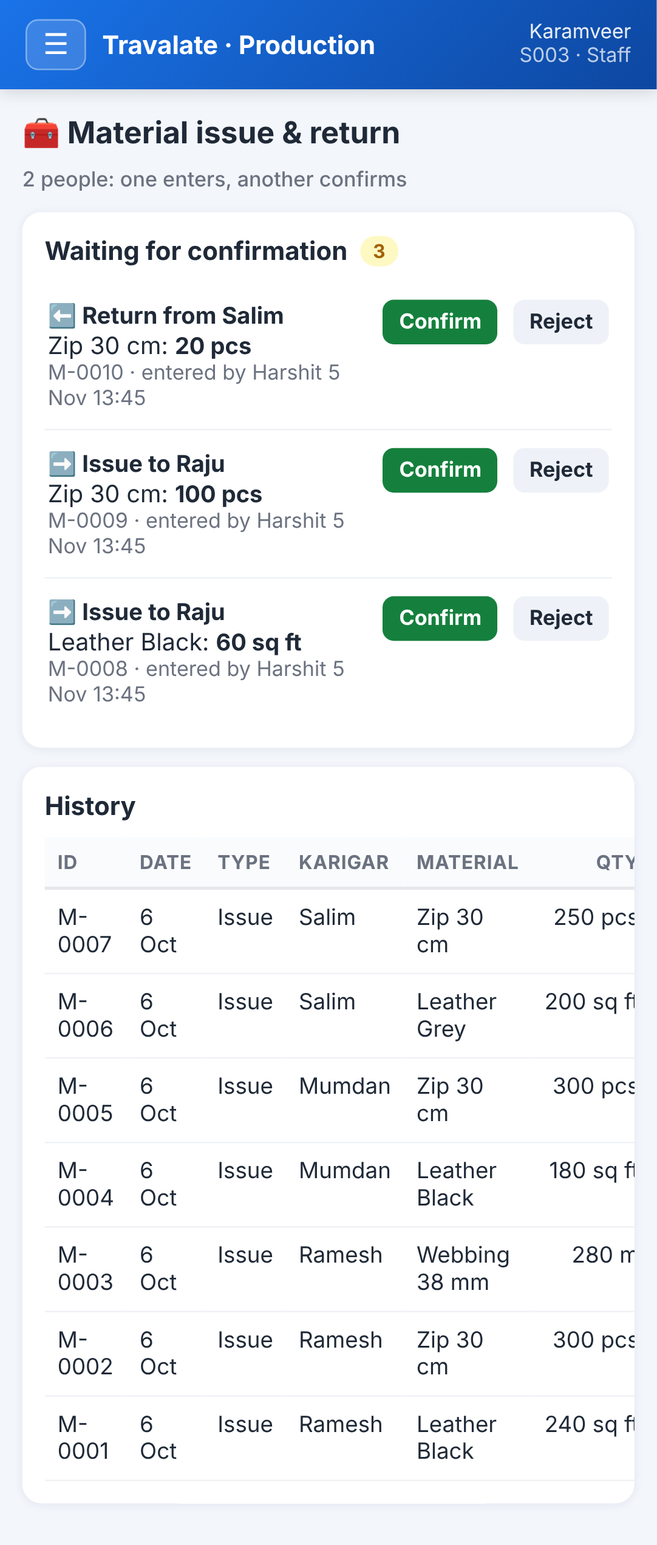
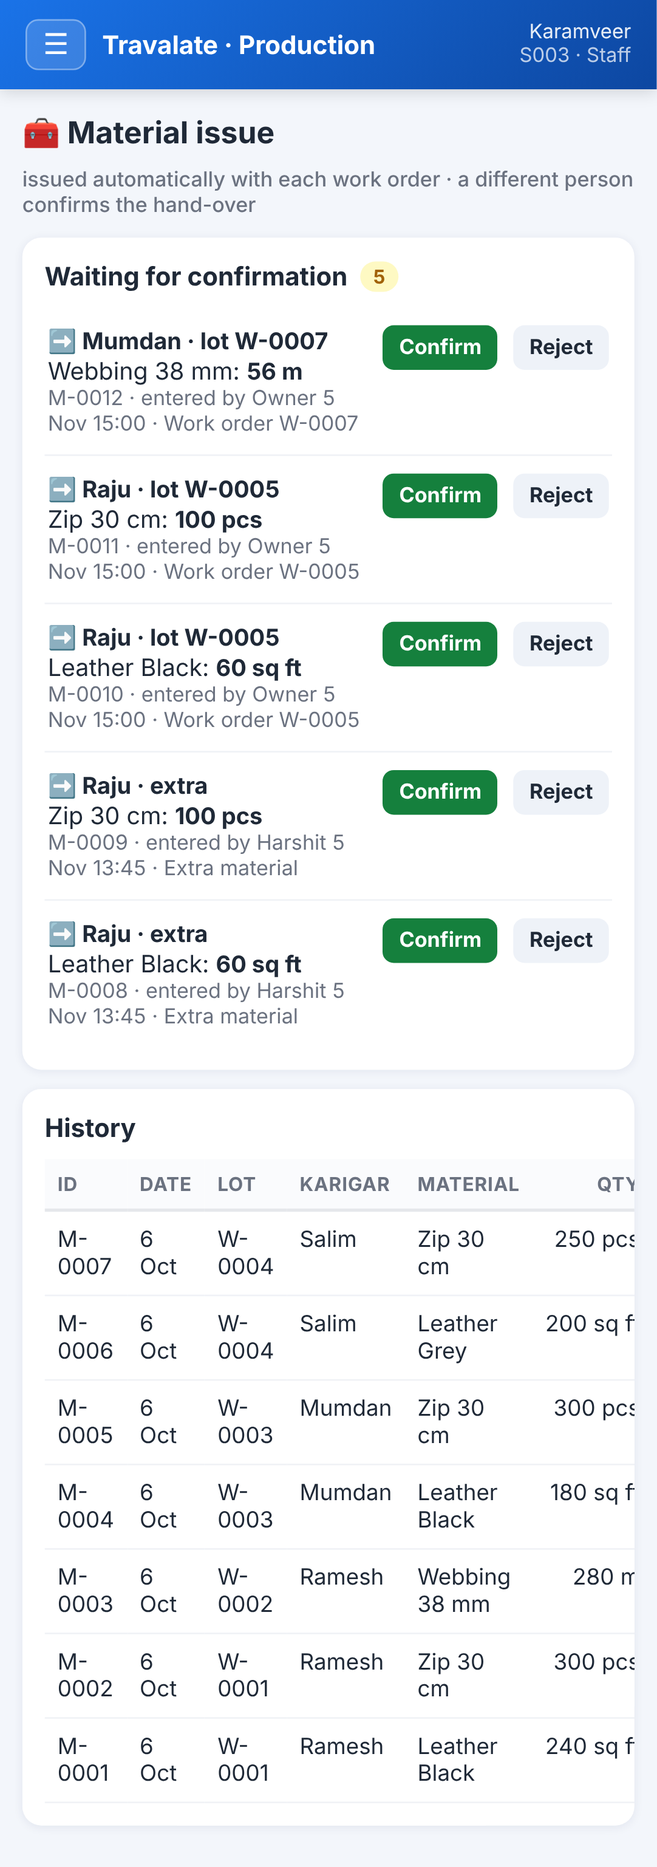
Production app: material is issued automatically with each work order; no returns
- Creating a lot issues quantity × material per piece (BOM) to the karigar; a different person confirms the
  hand-over (Confirm whole lot). Extra material outside a lot can still be issued.
- Material returns removed; balance = given − used.

Claude-Session: https://claude.ai/code/session_01Kh5UPgEYYGq7tCgf8f7WJ8

diff --git a/production-app/Index.html b/production-app/Index.html
@@ -501,7 +501,7 @@ VIEWS.orders = function (all) {
         '<select id="woI" onchange="woHint()">' + itemOpts(r.items) + '</select></div><div class="row" style="margin-top:8px"><input id="woQ" type="number" inputmode="numeric" placeholder="Quantity"><input id="woN" placeholder="Note (optional)"></div>' +
         (r.canRate ? '<div class="row" style="margin-top:8px"><input id="woR" type="number" step="any" inputmode="decimal" placeholder="Special rate for this lot (blank = normal rate)" oninput="woHint()"></div>' +
           '<div class="chk" id="woFutureRow" style="display:none"><input type="checkbox" id="woF"> Also use this rate for this karigar\'s future lots of this item</div>' : '') +
-        '<div class="muted" id="woHint" style="margin-top:6px"></div><button class="btn block" onclick="saveWo(this)">Add work order</button></div>' : '') +
+        '<div class="muted" id="woHint" style="margin-top:6px"></div><div class="muted">The lot\'s material (quantity × material per piece) is issued to the karigar automatically. A different person confirms the hand-over in Material issue.</div><button class="btn block" onclick="saveWo(this)">Add work order</button></div>' : '') +
       '<div class="card scroll"><table class="tbl"><tr><th>Lot</th><th>Karigar</th><th>Item</th><th class="r">Rate</th><th class="r">Ordered</th><th class="r">Received</th><th class="r">To make</th><th>Material for the lot</th><th></th></tr>' +
       (r.list.map(function (o) {
         var rate = o.rate !== null ? money(o.rate) + '<div>' + srcPill(o.rateSource) + '</div>' : (o.rateNow !== null ? money(o.rateNow) : '<span class="pill warn">No rate</span>');
@@ -520,7 +520,11 @@ function woHint() {
 function saveWo(btn) {
   busy(btn, true);
   api('saveOrder', S.token, { karigarId: val('woK'), item: val('woI'), qty: val('woQ'), note: val('woN'), lotRate: $('woR') ? val('woR') : '', futureToo: $('woF') ? $('woF').checked : false })
-    .then(function () { toast('Work order added'); go('orders'); }).catch(function (e) { fail(e, btn); });
+    .then(function (r) {
+      var a = r.added;
+      toast(a.id + ' added. ' + (a.issued.length ? 'Material issued: ' + a.issued.map(function (x) { return x.material + ' ' + num(x.qty) + ' ' + x.unit; }).join(', ') + ' (to be confirmed).' : 'This item has no BOM, so no material was issued.'));
+      go('orders');
+    }).catch(function (e) { fail(e, btn); });
 }
 function lotRate(id) {
   var o = S.data.ol.list.filter(function (x) { return x.id === id; })[0];
@@ -538,20 +542,32 @@ VIEWS.material = function () {
   api('moveList', S.token).then(function (r) {
     S.data.ml = r;
     var pending = r.list.filter(function (m) { return m.status === 'PENDING'; });
-    render('<h1 class="page">🧰 Material issue & return <small>2 people: one enters, another confirms</small></h1>' +
-      (r.canIssue ? '<div class="card"><h2>Give or take back material</h2><div class="row"><select id="mvT"><option value="ISSUE">Issue to karigar</option><option value="RETURN">Return from karigar</option></select>' +
+    render('<h1 class="page">🧰 Material issue <small>issued automatically with each work order · a different person confirms the hand-over</small></h1>' +
+      '<div class="card"><h2>Waiting for confirmation <span class="pill warn">' + pending.length + '</span></h2>' + (pending.length ? pendingByLot(pending) : '<div class="muted">Nothing waiting.</div>') + '</div>' +
+      (r.canIssue ? '<div class="card"><h2>Extra material (not part of a work order)</h2><div class="row">' +
         '<select id="mvK"><option value="">Karigar…</option>' + opts(r.karigars, '', function (k) { return k.name + ' (' + k.id + ')'; }) + '</select></div>' +
         '<div class="lines" style="margin-top:8px" id="mvLines"></div><button class="btn sec sm" onclick="addMvLine()">+ Add material</button><label class="f">Note</label><input id="mvN"><button class="btn block" onclick="saveMv(this)">Save (to be confirmed)</button></div>' : '') +
-      '<div class="card"><h2>Waiting for confirmation <span class="pill warn">' + pending.length + '</span></h2>' + (pending.length ? '<div class="list">' + pending.map(moveRow).join('') + '</div>' : '<div class="muted">Nothing waiting.</div>') + '</div>' +
-      '<div class="card scroll"><h2>History</h2><table class="tbl"><tr><th>ID</th><th>Date</th><th>Type</th><th>Karigar</th><th>Material</th><th class="r">Qty</th><th>Entered</th><th>Confirmed</th><th>Status</th></tr>' +
+      '<div class="card scroll"><h2>History</h2><table class="tbl"><tr><th>ID</th><th>Date</th><th>Lot</th><th>Karigar</th><th>Material</th><th class="r">Qty</th><th>Entered</th><th>Confirmed</th><th>Status</th></tr>' +
       r.list.filter(function (m) { return m.status !== 'PENDING'; }).map(function (m) {
-        return '<tr><td>' + m.id + '</td><td>' + d(m.date) + '</td><td>' + (m.type === 'ISSUE' ? 'Issue' : 'Return') + '</td><td>' + esc(m.karigar) + '</td><td>' + esc(m.material) + '</td><td class="r">' + num(m.qty) + ' ' + esc(m.unit) + '</td><td>' + esc(m.enteredByName) + '</td><td>' + esc(m.confirmedByName) + '</td><td><span class="pill ' + (m.status === 'CONFIRMED' ? 'ok' : 'err') + '">' + m.status.toLowerCase() + '</span></td></tr>';
+        return '<tr><td>' + m.id + '</td><td>' + d(m.date) + '</td><td>' + (m.workOrder || (m.type === 'RETURN' ? 'Return' : 'Extra')) + '</td><td>' + esc(m.karigar) + '</td><td>' + esc(m.material) + '</td><td class="r">' + num(m.qty) + ' ' + esc(m.unit) + '</td><td>' + esc(m.enteredByName) + '</td><td>' + esc(m.confirmedByName) + '</td><td><span class="pill ' + (m.status === 'CONFIRMED' ? 'ok' : 'err') + '">' + m.status.toLowerCase() + '</span></td></tr>';
       }).join('') + '</table></div>');
     if (r.canIssue) addMvLine();
   }).catch(function (e) { render('<div class="msg err">' + esc(e.message) + '</div>'); });
 };
+function pendingByLot(pending) {
+  var lots = {}, order = [];
+  pending.forEach(function (m) { var k = m.workOrder || ('extra-' + m.id); if (!lots[k]) { lots[k] = []; order.push(k); } lots[k].push(m); });
+  return order.map(function (k) {
+    var list = lots[k], m0 = list[0];
+    if (!m0.workOrder) return '<div class="list">' + list.map(moveRow).join('') + '</div>';
+    return '<div style="border:1px solid var(--line);border-radius:10px;padding:8px 12px;margin-bottom:10px"><div class="row" style="align-items:center"><div><b>Lot ' + m0.workOrder + ' · ' + esc(m0.karigar) + '</b><div class="muted">entered by ' + esc(m0.enteredByName) + ' ' + d(m0.enteredAt) + '</div></div>' +
+      (m0.canDecide ? '<button class="btn ok fix" onclick="confirmLot(\'' + m0.workOrder + '\',this)">Confirm whole lot</button>' : '<span class="muted fix">' + (m0.enteredBy === S.profile.id ? 'Another person must confirm' : '') + '</span>') + '</div>' +
+      '<div class="list">' + list.map(moveRow).join('') + '</div></div>';
+  }).join('');
+}
+function confirmLot(lot, btn) { busy(btn, true); api('confirmLot', S.token, lot).then(function () { toast('Material of ' + lot + ' confirmed'); go('material'); }).catch(function (e) { fail(e, btn); }); }
 function moveRow(m) {
-  return '<div class="it"><div class="grow"><b>' + (m.type === 'ISSUE' ? '➡ Issue to ' : '⬅ Return from ') + esc(m.karigar) + '</b><div>' + esc(m.material) + ': <b>' + num(m.qty) + ' ' + esc(m.unit) + '</b></div><div class="muted">' + m.id + ' · entered by ' + esc(m.enteredByName) + ' ' + d(m.enteredAt) + (m.note ? ' · ' + esc(m.note) : '') + '</div></div>' +
+  return '<div class="it"><div class="grow"><b>➡ ' + esc(m.karigar) + (m.workOrder ? ' · lot ' + m.workOrder : ' · extra') + '</b><div>' + esc(m.material) + ': <b>' + num(m.qty) + ' ' + esc(m.unit) + '</b></div><div class="muted">' + m.id + ' · entered by ' + esc(m.enteredByName) + ' ' + d(m.enteredAt) + (m.note ? ' · ' + esc(m.note) : '') + '</div></div>' +
     (m.canDecide ? '<button class="btn ok sm" onclick="decide(\'' + m.id + '\',true,this)">Confirm</button> <button class="btn sec sm" onclick="decide(\'' + m.id + '\',false,this)">Reject</button>' : '<span class="muted">' + (m.enteredBy === S.profile.id ? 'Another person must confirm' : '') + '</span>') + '</div>';
 }
 function addMvLine() {
@@ -561,7 +577,7 @@ function addMvLine() {
 }
 function saveMv(btn) {
   var lines = Array.prototype.map.call(document.querySelectorAll('#mvLines .ln'), function (ln) { return { material: ln.children[0].value, qty: Number(ln.children[1].value) }; }).filter(function (l) { return l.material && l.qty > 0; });
-  busy(btn, true); api('saveMove', S.token, { type: val('mvT'), karigarId: val('mvK'), lines: lines, note: val('mvN') }).then(function () { toast('Saved. Another person must confirm it.'); go('material'); }).catch(function (e) { fail(e, btn); });
+  busy(btn, true); api('saveMove', S.token, { karigarId: val('mvK'), lines: lines, note: val('mvN') }).then(function () { toast('Saved. Another person must confirm it.'); go('material'); }).catch(function (e) { fail(e, btn); });
 }
 function decide(id, ok, btn) { busy(btn, true); api('decideMove', S.token, id, ok).then(function () { toast(ok ? 'Confirmed' : 'Rejected'); go('material'); }).catch(function (e) { fail(e, btn); }); }
 
@@ -569,11 +585,11 @@ VIEWS.balance = function () {
   api('materialBalance', S.token).then(function (r) {
     var by = {};
     r.list.forEach(function (b) { (by[b.karigar] = by[b.karigar] || []).push(b); });
-    render('<h1 class="page">⚖ Material balance <small>given − returned − used (good + rejected × BOM). No wastage allowed.</small></h1>' +
+    render('<h1 class="page">⚖ Material balance <small>given − used (good + rejected pieces × material per piece). No wastage allowed.</small></h1>' +
       Object.keys(by).map(function (k) {
-        return '<div class="card scroll"><h2>👷 ' + esc(k) + '</h2><table class="tbl"><tr><th>Material</th><th class="r">Given</th><th class="r">Returned</th><th class="r">Used</th><th class="r">With karigar</th><th class="r">Unconfirmed</th><th class="r">Still to give</th><th></th></tr>' +
+        return '<div class="card scroll"><h2>👷 ' + esc(k) + '</h2><table class="tbl"><tr><th>Material</th><th class="r">Given</th><th class="r">Used</th><th class="r">With karigar</th><th class="r">Not confirmed yet</th><th></th></tr>' +
           by[k].map(function (b) {
-            return '<tr><td>' + esc(b.materialName) + '</td><td class="r">' + num(b.issued) + '</td><td class="r">' + num(b.returned) + '</td><td class="r">' + num(b.used) + '</td><td class="r ' + (b.balance < 0 ? 'neg' : '') + '"><b>' + num(b.balance) + '</b> ' + esc(b.unit) + '</td><td class="r">' + (b.pending ? num(b.pending) : '') + '</td><td class="r">' + (b.toIssue ? num(b.toIssue) : '') + '</td><td>' + (b.flag ? '<span class="pill ' + (b.balance < 0 ? 'err' : 'warn') + '">' + esc(b.flag) + '</span>' : '') + '</td></tr>';
+            return '<tr><td>' + esc(b.materialName) + '</td><td class="r">' + num(b.issued - b.returned) + '</td><td class="r">' + num(b.used) + '</td><td class="r ' + (b.balance < 0 ? 'neg' : '') + '"><b>' + num(b.balance) + '</b> ' + esc(b.unit) + '</td><td class="r">' + (b.pending ? num(b.pending) : '') + '</td><td>' + (b.flag ? '<span class="pill ' + (b.balance < 0 ? 'err' : 'warn') + '">' + esc(b.flag) + '</span>' : '') + '</td></tr>';
           }).join('') + '</table></div>';
       }).join('') || '<div class="card muted">No material given yet.</div>');
   }).catch(function (e) { render('<div class="msg err">' + esc(e.message) + '</div>'); });

diff --git a/production/index.html b/production/index.html
@@ -501,7 +501,7 @@ VIEWS.orders = function (all) {
         '<select id="woI" onchange="woHint()">' + itemOpts(r.items) + '</select></div><div class="row" style="margin-top:8px"><input id="woQ" type="number" inputmode="numeric" placeholder="Quantity"><input id="woN" placeholder="Note (optional)"></div>' +
         (r.canRate ? '<div class="row" style="margin-top:8px"><input id="woR" type="number" step="any" inputmode="decimal" placeholder="Special rate for this lot (blank = normal rate)" oninput="woHint()"></div>' +
           '<div class="chk" id="woFutureRow" style="display:none"><input type="checkbox" id="woF"> Also use this rate for this karigar\'s future lots of this item</div>' : '') +
-        '<div class="muted" id="woHint" style="margin-top:6px"></div><button class="btn block" onclick="saveWo(this)">Add work order</button></div>' : '') +
+        '<div class="muted" id="woHint" style="margin-top:6px"></div><div class="muted">The lot\'s material (quantity × material per piece) is issued to the karigar automatically. A different person confirms the hand-over in Material issue.</div><button class="btn block" onclick="saveWo(this)">Add work order</button></div>' : '') +
       '<div class="card scroll"><table class="tbl"><tr><th>Lot</th><th>Karigar</th><th>Item</th><th class="r">Rate</th><th class="r">Ordered</th><th class="r">Received</th><th class="r">To make</th><th>Material for the lot</th><th></th></tr>' +
       (r.list.map(function (o) {
         var rate = o.rate !== null ? money(o.rate) + '<div>' + srcPill(o.rateSource) + '</div>' : (o.rateNow !== null ? money(o.rateNow) : '<span class="pill warn">No rate</span>');
@@ -520,7 +520,11 @@ function woHint() {
 function saveWo(btn) {
   busy(btn, true);
   api('saveOrder', S.token, { karigarId: val('woK'), item: val('woI'), qty: val('woQ'), note: val('woN'), lotRate: $('woR') ? val('woR') : '', futureToo: $('woF') ? $('woF').checked : false })
-    .then(function () { toast('Work order added'); go('orders'); }).catch(function (e) { fail(e, btn); });
+    .then(function (r) {
+      var a = r.added;
+      toast(a.id + ' added. ' + (a.issued.length ? 'Material issued: ' + a.issued.map(function (x) { return x.material + ' ' + num(x.qty) + ' ' + x.unit; }).join(', ') + ' (to be confirmed).' : 'This item has no BOM, so no material was issued.'));
+      go('orders');
+    }).catch(function (e) { fail(e, btn); });
 }
 function lotRate(id) {
   var o = S.data.ol.list.filter(function (x) { return x.id === id; })[0];
@@ -538,20 +542,32 @@ VIEWS.material = function () {
   api('moveList', S.token).then(function (r) {
     S.data.ml = r;
     var pending = r.list.filter(function (m) { return m.status === 'PENDING'; });
-    render('<h1 class="page">🧰 Material issue & return <small>2 people: one enters, another confirms</small></h1>' +
-      (r.canIssue ? '<div class="card"><h2>Give or take back material</h2><div class="row"><select id="mvT"><option value="ISSUE">Issue to karigar</option><option value="RETURN">Return from karigar</option></select>' +
+    render('<h1 class="page">🧰 Material issue <small>issued automatically with each work order · a different person confirms the hand-over</small></h1>' +
+      '<div class="card"><h2>Waiting for confirmation <span class="pill warn">' + pending.length + '</span></h2>' + (pending.length ? pendingByLot(pending) : '<div class="muted">Nothing waiting.</div>') + '</div>' +
+      (r.canIssue ? '<div class="card"><h2>Extra material (not part of a work order)</h2><div class="row">' +
         '<select id="mvK"><option value="">Karigar…</option>' + opts(r.karigars, '', function (k) { return k.name + ' (' + k.id + ')'; }) + '</select></div>' +
         '<div class="lines" style="margin-top:8px" id="mvLines"></div><button class="btn sec sm" onclick="addMvLine()">+ Add material</button><label class="f">Note</label><input id="mvN"><button class="btn block" onclick="saveMv(this)">Save (to be confirmed)</button></div>' : '') +
-      '<div class="card"><h2>Waiting for confirmation <span class="pill warn">' + pending.length + '</span></h2>' + (pending.length ? '<div class="list">' + pending.map(moveRow).join('') + '</div>' : '<div class="muted">Nothing waiting.</div>') + '</div>' +
-      '<div class="card scroll"><h2>History</h2><table class="tbl"><tr><th>ID</th><th>Date</th><th>Type</th><th>Karigar</th><th>Material</th><th class="r">Qty</th><th>Entered</th><th>Confirmed</th><th>Status</th></tr>' +
+      '<div class="card scroll"><h2>History</h2><table class="tbl"><tr><th>ID</th><th>Date</th><th>Lot</th><th>Karigar</th><th>Material</th><th class="r">Qty</th><th>Entered</th><th>Confirmed</th><th>Status</th></tr>' +
       r.list.filter(function (m) { return m.status !== 'PENDING'; }).map(function (m) {
-        return '<tr><td>' + m.id + '</td><td>' + d(m.date) + '</td><td>' + (m.type === 'ISSUE' ? 'Issue' : 'Return') + '</td><td>' + esc(m.karigar) + '</td><td>' + esc(m.material) + '</td><td class="r">' + num(m.qty) + ' ' + esc(m.unit) + '</td><td>' + esc(m.enteredByName) + '</td><td>' + esc(m.confirmedByName) + '</td><td><span class="pill ' + (m.status === 'CONFIRMED' ? 'ok' : 'err') + '">' + m.status.toLowerCase() + '</span></td></tr>';
+        return '<tr><td>' + m.id + '</td><td>' + d(m.date) + '</td><td>' + (m.workOrder || (m.type === 'RETURN' ? 'Return' : 'Extra')) + '</td><td>' + esc(m.karigar) + '</td><td>' + esc(m.material) + '</td><td class="r">' + num(m.qty) + ' ' + esc(m.unit) + '</td><td>' + esc(m.enteredByName) + '</td><td>' + esc(m.confirmedByName) + '</td><td><span class="pill ' + (m.status === 'CONFIRMED' ? 'ok' : 'err') + '">' + m.status.toLowerCase() + '</span></td></tr>';
       }).join('') + '</table></div>');
     if (r.canIssue) addMvLine();
   }).catch(function (e) { render('<div class="msg err">' + esc(e.message) + '</div>'); });
 };
+function pendingByLot(pending) {
+  var lots = {}, order = [];
+  pending.forEach(function (m) { var k = m.workOrder || ('extra-' + m.id); if (!lots[k]) { lots[k] = []; order.push(k); } lots[k].push(m); });
+  return order.map(function (k) {
+    var list = lots[k], m0 = list[0];
+    if (!m0.workOrder) return '<div class="list">' + list.map(moveRow).join('') + '</div>';
+    return '<div style="border:1px solid var(--line);border-radius:10px;padding:8px 12px;margin-bottom:10px"><div class="row" style="align-items:center"><div><b>Lot ' + m0.workOrder + ' · ' + esc(m0.karigar) + '</b><div class="muted">entered by ' + esc(m0.enteredByName) + ' ' + d(m0.enteredAt) + '</div></div>' +
+      (m0.canDecide ? '<button class="btn ok fix" onclick="confirmLot(\'' + m0.workOrder + '\',this)">Confirm whole lot</button>' : '<span class="muted fix">' + (m0.enteredBy === S.profile.id ? 'Another person must confirm' : '') + '</span>') + '</div>' +
+      '<div class="list">' + list.map(moveRow).join('') + '</div></div>';
+  }).join('');
+}
+function confirmLot(lot, btn) { busy(btn, true); api('confirmLot', S.token, lot).then(function () { toast('Material of ' + lot + ' confirmed'); go('material'); }).catch(function (e) { fail(e, btn); }); }
 function moveRow(m) {
-  return '<div class="it"><div class="grow"><b>' + (m.type === 'ISSUE' ? '➡ Issue to ' : '⬅ Return from ') + esc(m.karigar) + '</b><div>' + esc(m.material) + ': <b>' + num(m.qty) + ' ' + esc(m.unit) + '</b></div><div class="muted">' + m.id + ' · entered by ' + esc(m.enteredByName) + ' ' + d(m.enteredAt) + (m.note ? ' · ' + esc(m.note) : '') + '</div></div>' +
+  return '<div class="it"><div class="grow"><b>➡ ' + esc(m.karigar) + (m.workOrder ? ' · lot ' + m.workOrder : ' · extra') + '</b><div>' + esc(m.material) + ': <b>' + num(m.qty) + ' ' + esc(m.unit) + '</b></div><div class="muted">' + m.id + ' · entered by ' + esc(m.enteredByName) + ' ' + d(m.enteredAt) + (m.note ? ' · ' + esc(m.note) : '') + '</div></div>' +
     (m.canDecide ? '<button class="btn ok sm" onclick="decide(\'' + m.id + '\',true,this)">Confirm</button> <button class="btn sec sm" onclick="decide(\'' + m.id + '\',false,this)">Reject</button>' : '<span class="muted">' + (m.enteredBy === S.profile.id ? 'Another person must confirm' : '') + '</span>') + '</div>';
 }
 function addMvLine() {
@@ -561,7 +577,7 @@ function addMvLine() {
 }
 function saveMv(btn) {
   var lines = Array.prototype.map.call(document.querySelectorAll('#mvLines .ln'), function (ln) { return { material: ln.children[0].value, qty: Number(ln.children[1].value) }; }).filter(function (l) { return l.material && l.qty > 0; });
-  busy(btn, true); api('saveMove', S.token, { type: val('mvT'), karigarId: val('mvK'), lines: lines, note: val('mvN') }).then(function () { toast('Saved. Another person must confirm it.'); go('material'); }).catch(function (e) { fail(e, btn); });
+  busy(btn, true); api('saveMove', S.token, { karigarId: val('mvK'), lines: lines, note: val('mvN') }).then(function () { toast('Saved. Another person must confirm it.'); go('material'); }).catch(function (e) { fail(e, btn); });
 }
 function decide(id, ok, btn) { busy(btn, true); api('decideMove', S.token, id, ok).then(function () { toast(ok ? 'Confirmed' : 'Rejected'); go('material'); }).catch(function (e) { fail(e, btn); }); }
 
@@ -569,11 +585,11 @@ VIEWS.balance = function () {
   api('materialBalance', S.token).then(function (r) {
     var by = {};
     r.list.forEach(function (b) { (by[b.karigar] = by[b.karigar] || []).push(b); });
-    render('<h1 class="page">⚖ Material balance <small>given − returned − used (good + rejected × BOM). No wastage allowed.</small></h1>' +
+    render('<h1 class="page">⚖ Material balance <small>given − used (good + rejected pieces × material per piece). No wastage allowed.</small></h1>' +
       Object.keys(by).map(function (k) {
-        return '<div class="card scroll"><h2>👷 ' + esc(k) + '</h2><table class="tbl"><tr><th>Material</th><th class="r">Given</th><th class="r">Returned</th><th class="r">Used</th><th class="r">With karigar</th><th class="r">Unconfirmed</th><th class="r">Still to give</th><th></th></tr>' +
+        return '<div class="card scroll"><h2>👷 ' + esc(k) + '</h2><table class="tbl"><tr><th>Material</th><th class="r">Given</th><th class="r">Used</th><th class="r">With karigar</th><th class="r">Not confirmed yet</th><th></th></tr>' +
           by[k].map(function (b) {
-            return '<tr><td>' + esc(b.materialName) + '</td><td class="r">' + num(b.issued) + '</td><td class="r">' + num(b.returned) + '</td><td class="r">' + num(b.used) + '</td><td class="r ' + (b.balance < 0 ? 'neg' : '') + '"><b>' + num(b.balance) + '</b> ' + esc(b.unit) + '</td><td class="r">' + (b.pending ? num(b.pending) : '') + '</td><td class="r">' + (b.toIssue ? num(b.toIssue) : '') + '</td><td>' + (b.flag ? '<span class="pill ' + (b.balance < 0 ? 'err' : 'warn') + '">' + esc(b.flag) + '</span>' : '') + '</td></tr>';
+            return '<tr><td>' + esc(b.materialName) + '</td><td class="r">' + num(b.issued - b.returned) + '</td><td class="r">' + num(b.used) + '</td><td class="r ' + (b.balance < 0 ? 'neg' : '') + '"><b>' + num(b.balance) + '</b> ' + esc(b.unit) + '</td><td class="r">' + (b.pending ? num(b.pending) : '') + '</td><td>' + (b.flag ? '<span class="pill ' + (b.balance < 0 ? 'err' : 'warn') + '">' + esc(b.flag) + '</span>' : '') + '</td></tr>';
           }).join('') + '</table></div>';
       }).join('') || '<div class="card muted">No material given yet.</div>');
   }).catch(function (e) { render('<div class="msg err">' + esc(e.message) + '</div>'); });

diff --git a/production-app/README.md b/production-app/README.md
@@ -4,7 +4,10 @@ Karigars make bags and parts for you. This app keeps track of everything from ra
 
 - **Work orders:** what each karigar is making (for example 300 × TR-1323-Black). What is not received yet is
   "in production" and shows small and grey in the Inventory Snapshot.
-- **Raw material, 2 people:** one person enters an issue or return, a **different** person confirms it.
+- **Raw material, issued with the work order:** creating a lot issues its material to the karigar
+  automatically (quantity × material per piece, from the item's BOM). A **different** person confirms the
+  hand-over in **Material issue**, with one tap per lot (**Confirm whole lot**). Extra material outside a lot can
+  still be issued there. There are **no returns**.
 - **Final count, 2 people:** count 1 with a **photo** of the goods, then count 2 by a **different** person who
   does **not** see count 1 (blind). **Count 2 is final:** the batch is locked with count 2's numbers. If count 1
   was different, that is kept and flagged ("Count 1 differed") but does not block anything.
@@ -29,8 +32,9 @@ Karigars make bags and parts for you. This app keeps track of everything from ra
 - **Advances:** given with a cut per pay period (Advances tab). At **payroll**, the person who approves pay
   can **raise, lower or zero** each karigar's cut for that month (**Change** under the advance). This only
   works before approving, and later periods keep the normal cut.
-- **Material balance:** given − returned − used (good + rejected pieces × bill of materials). No wastage
-  allowance. A negative balance or material left with a karigar who has no open work order is **flagged**.
+- **Material balance:** given − used (good + rejected pieces × material per piece). No wastage allowance. A
+  negative balance (more made than the material given, e.g. goods without a lot) or material left with a
+  karigar who has no running lot is **flagged**.
 - **Locked entries** can only be corrected by a **super admin**, with a reason. Every entry and change is
   in the **Change log**.
 - **Logins:** karigars (ID + PIN) see their own work, material, work orders and payslips. Staff see the
@@ -73,7 +77,7 @@ Screens are in `production-app/screenshots/`.
 3. **Items & rates:** add inventory SKUs (picked from the Inventory App's list) and parts, each with its
    **standard rate**. Set each item's **material per piece (BOM)**.
 4. **Karigars & rates:** add karigars (ID + PIN). Set a karigar's own rate only in the rare cases it differs.
-5. **Work orders (lots)**, then **Material issue**, then counting can start.
+5. **Work orders (lots):** the material is issued with each lot. Another person confirms it, then counting can start.
 
 ### Automatic deploy (optional)
 Same as the attendance app (`.github/workflows/deploy-production-apps-script.yml`). Add the repository
@@ -161,7 +165,7 @@ How it works:
 | Rates | Standard rates (Karigar ID `*`) and karigars' own rates for future lots (`STD` = back to standard). History: a new row per change |
 | Materials / BOM | Raw materials and the material per piece of each item |
 | Work Orders | The lots: what each karigar is making, and the lot's rate (standard / karigar / special) |
-| Material Moves | Issues and returns with who entered and who confirmed |
+| Material Moves | Material issued (per lot, or extra) with who entered and who confirmed |
 | Batches | Hand-over claim, count 1 (+photo), count 2 (final), status, final date, inventory status |
 | Batch Lines | Locked counts per item and work order (what pay and the material balance use) |
 | Advances / Advance Periods | Advances and the full / partial / skipped cut per pay period |
